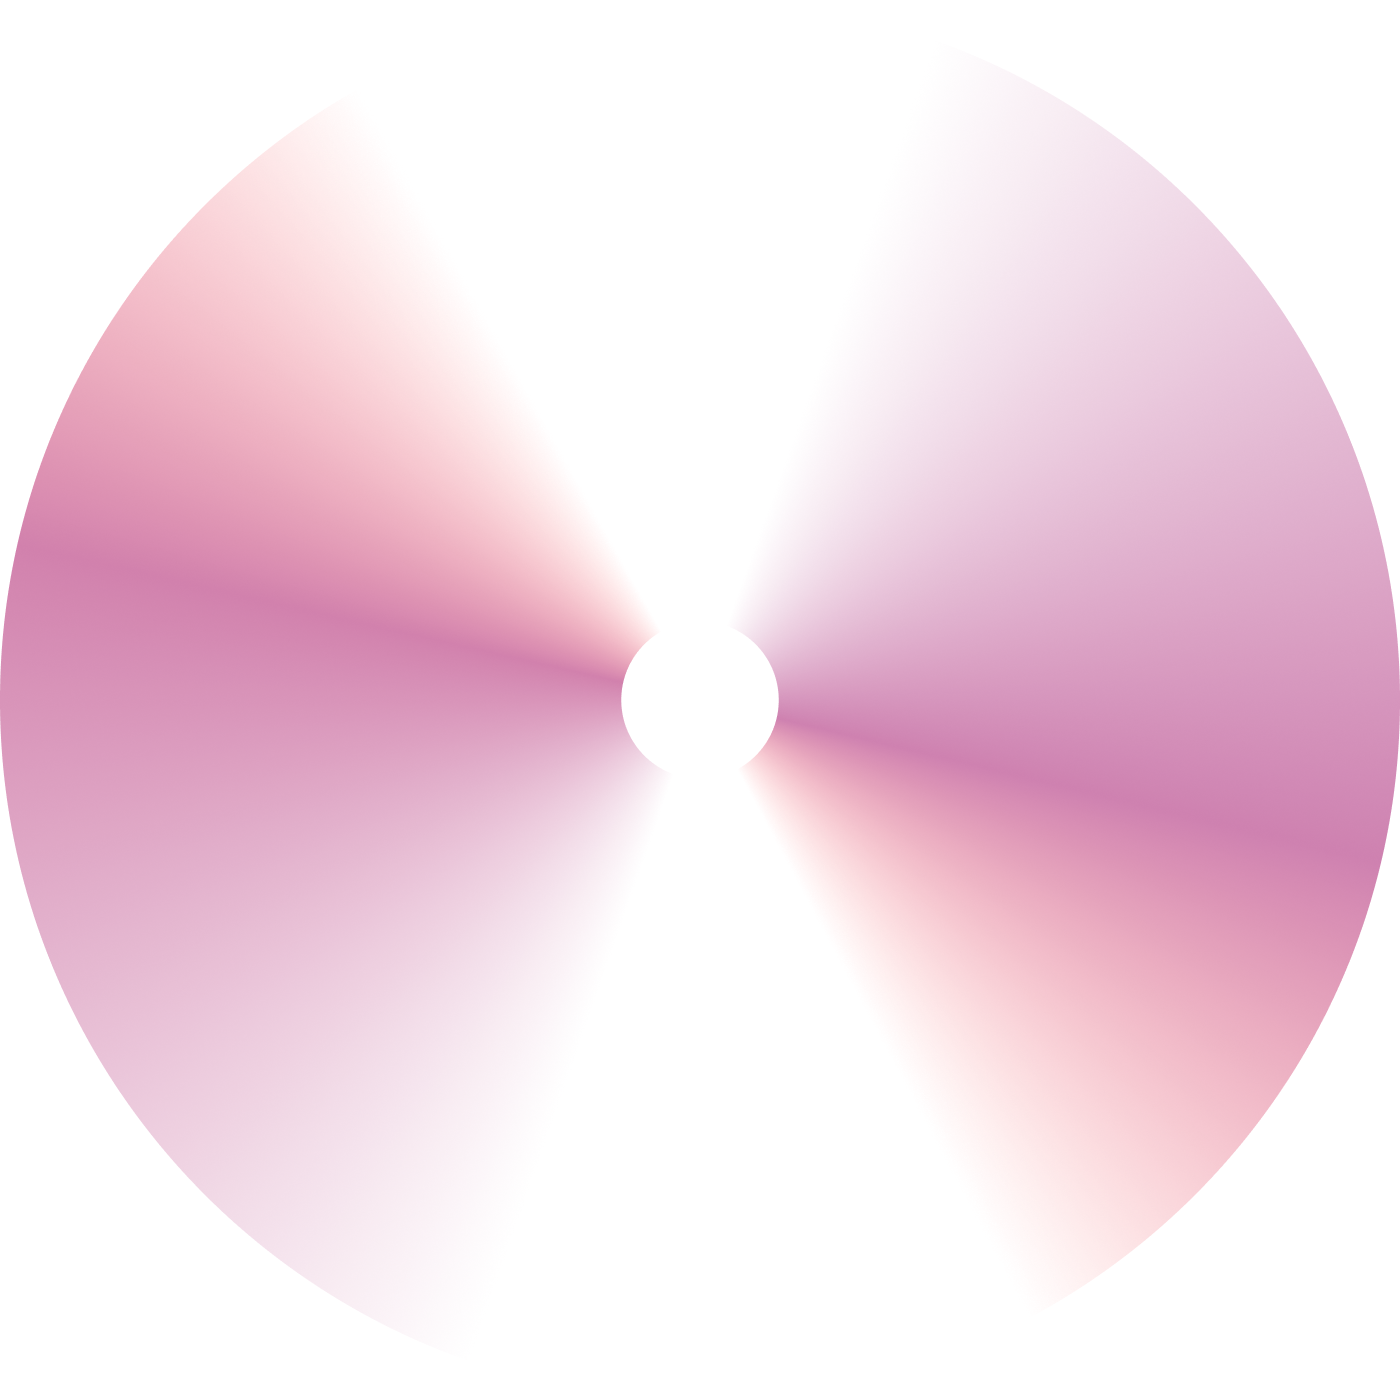
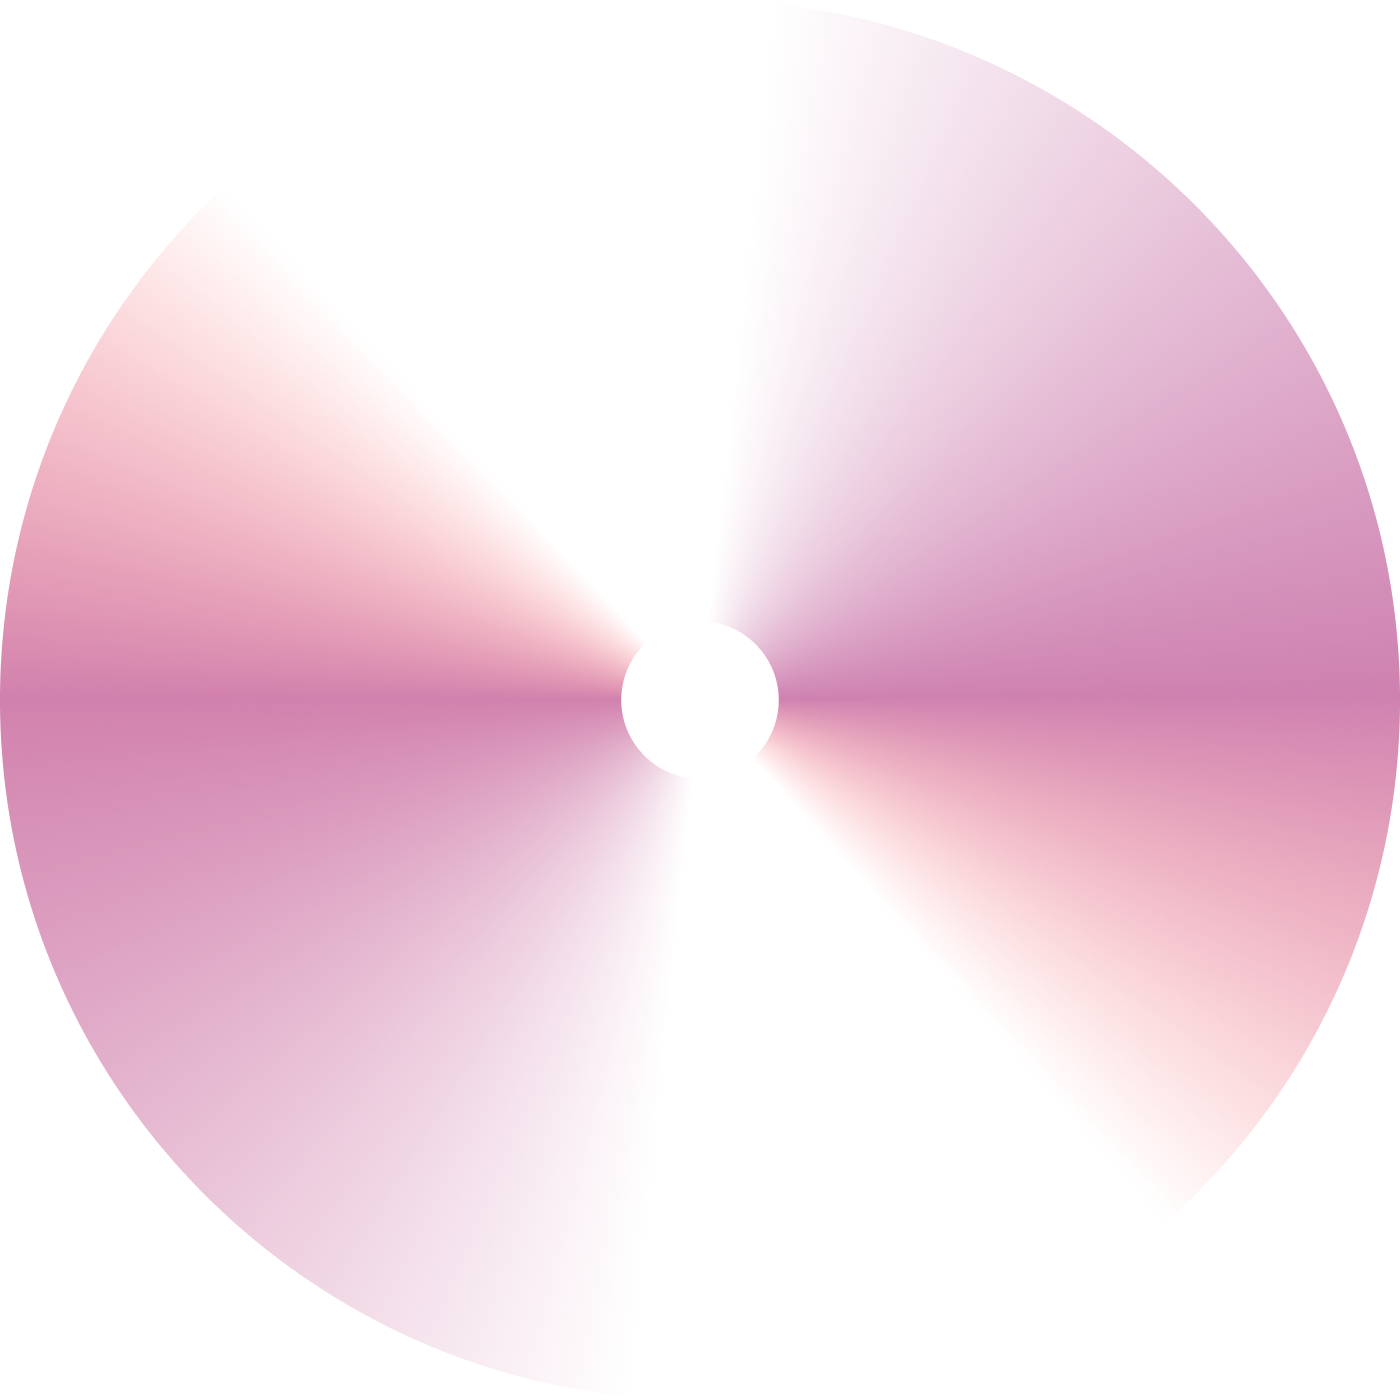
made cd prettier:)

Changed region(s): [[0.5221, 0.4914, 1.0, 0.8907], [0.0, 0.0921, 0.4607, 0.4914]]

diff --git a/app/page.tsx b/app/page.tsx
@@ -38,6 +38,7 @@ const trackList = [
 export default function Home(props: typeof trackList) {
   const maxWidth = 17;
   const scrollHeight = 400;
+  const imageHeight = 200;
 
   useEffect(() => {
     const scrollImages = document.getElementById("scrollImages") as HTMLElement;
@@ -104,11 +105,11 @@ export default function Home(props: typeof trackList) {
         }
         animateImages(-3 + 3 * easeOutQuad(scrollProgress));
         scrollImages.style.transform = `translateY(${
-          200 - easeInQuad(scrollProgress) * 200
+          imageHeight - easeInQuad(scrollProgress) * imageHeight
         }px)`;
 
         status1.style.transform = `translateY(${
-          0 - 200 * easeInQuad(scrollProgress)
+          0 - imageHeight * easeInQuad(scrollProgress)
         }px)`;
         status1.style.opacity = "1";
         status2.style.opacity = "0";
@@ -143,7 +144,7 @@ export default function Home(props: typeof trackList) {
         scrollImages.style.filter = `brightness(1)`;
         scrollImages.style.opacity = "1";
 
-        status1.style.transform = `translateY(-200px)`;
+        status1.style.transform = `translateY(-${imageHeight}px)`;
         status1.style.opacity = "0";
         status2.style.opacity = "1";
       }
@@ -320,18 +321,6 @@ export default function Home(props: typeof trackList) {
   return (
     <main className="w-screen flex flex-col row-start-2 items-center sm:items-start text-[#fff]">
       <section className="relative w-full h-screen">
-        {/* <div
-          className="absolute top-0 left-0 w-screen"
-          style={{ height: "calc(200vh - 200px)" }}
-        >
-          <img
-            className="w-full h-full object-cover"
-            src="/images/image_57.webp"
-            width={200}
-            height={300}
-            alt=""
-          />
-        </div> */}
         <h1>Renaissance</h1>
       </section>
       <section
@@ -372,8 +361,8 @@ export default function Home(props: typeof trackList) {
         <div
           className="absolute pointer-events-none w-screen left-0 z-10"
           style={{
-            top: "calc(100vh - 200px - 18px)",
-            height: `calc(${scrollHeight - 100}vh + 18px)`,
+            top: `calc(100vh - ${imageHeight}px - 18px)`,
+            height: `calc(${scrollHeight - 100}vh + ${imageHeight}px + 18px)`,
           }}
         >
           <div
@@ -417,8 +406,9 @@ export default function Home(props: typeof trackList) {
                 {trackList.map((track, i) => (
                   <div
                     key={i}
-                    className="h-[200px] relative overflow-hidden origin-left"
+                    className="relative overflow-hidden origin-left"
                     style={{
+                      height: `${imageHeight}px`,
                       transform: "translate3d(0,0,0)",
                       transition: "background-color 0.6s ease",
                     }}
@@ -426,8 +416,8 @@ export default function Home(props: typeof trackList) {
                     <Image
                       className="w-full object-cover h-full origin-top"
                       src={track.src}
-                      width={200}
-                      height={300}
+                      width={imageHeight}
+                      height={imageHeight}
                       alt={track.name}
                       style={{
                         transition: "opacity 0.6s ease",
@@ -442,8 +432,9 @@ export default function Home(props: typeof trackList) {
         </div>
         <div
           id="scrollLines"
-          className="absolute w-screen h-full bottom-[200px] left-0 flex flex-row gap-[0px]"
+          className="absolute w-screen h-full left-0 flex flex-row gap-[0px]"
           style={{
+            bottom: `${imageHeight}px`,
             height: `${scrollHeight - 100}vh`,
           }}
         >
@@ -472,7 +463,7 @@ export default function Home(props: typeof trackList) {
       </section>
       <section className="relative w-full h-screen">
         <h1>Renaissance</h1>
-        <div className="absolute top-0 left-0 w-full h-full">
+        <div className="absolute top-0 left-0 w-screen h-screen overflow-hidden">
           <Cd size={500} />
         </div>
         <div className="absolute bottom-0 left-0 w-full detail text-[12px] flex flex-row items-start gap-20 z-10 pointer-events-none">

diff --git a/components/Cd/Cd.tsx b/components/Cd/Cd.tsx
@@ -134,22 +134,25 @@ const Cd = ({ size }: props) => {
         >
           <div className="absolute w-[97.5%] h-[97.5%] flex justify-center items-center z-[2] mix-blend-hard-light">
             <motion.img
-              className="absolute w-full h-full z-[4] mix-blend-plus-lighter opacity-70"
-              src="/images/cd/sat3.png"
+              className="absolute w-[102%] h-[102%] z-[4] mix-blend-plus-lighter opacity-70"
+              src="/images/cd/sat2.png"
               alt="sat2"
               style={{ objectFit: "cover", rotateZ: rotateZ }}
             />
             <motion.img
-              className="absolute w-full h-full z-[3] mix-blend-hard-light"
+              className="absolute w-[102%] h-[102%] z-[3] mix-blend-plus-lighter"
               src="/images/cd/sat.png"
               alt="sat"
-              style={{ objectFit: "cover", rotateZ: rotateZ }}
+              style={{ objectFit: "cover" }}
             />
             <motion.img
-              className="absolute w-full h-full z-[2] opacity-100"
+              className="absolute w-[102%] h-[102%] z-[2] opacity-100"
               src="/images/cd/mask.png"
               alt="mask"
-              style={{ objectFit: "cover", rotateZ: rotateZ }}
+              style={{
+                objectFit: "cover",
+                filter: "brightness(1)",
+              }}
             />
             <motion.img
               className="absolute w-[99.5%] h-[99.5%] z-[1]"
@@ -169,7 +172,11 @@ const Cd = ({ size }: props) => {
               className="absolute w-full h-full z-[1]"
               src="/images/cd/cd1.png"
               alt="cd"
-              style={{ objectFit: "cover", rotateZ: rotateZ }}
+              style={{
+                objectFit: "cover",
+                rotateZ: rotateZ,
+                filter: "brightness(1.2)",
+              }}
             />
             <motion.img
               className="absolute w-[99.7%] h-[99.7%] z-[2] transition-transform duration-[900ms] ease-out"
@@ -194,7 +201,7 @@ const Cd = ({ size }: props) => {
                 style={{
                   objectFit: "cover",
                   transform: "translate(25%,-25%)",
-                  opacity: isNaN(opacity1.get()) ? 0 : opacity1,
+                  opacity: 0,
                 }}
               />
               <motion.img
@@ -203,7 +210,7 @@ const Cd = ({ size }: props) => {
                 alt="mask"
                 style={{
                   objectFit: "cover",
-                  transform: "translate(-25%,25%) scale(-1,-1)",
+                  transform: "translate(-50%,0%) scale(-1,-1)",
                   opacity: isNaN(opacity2.get()) ? 0 : opacity2,
                 }}
               />
